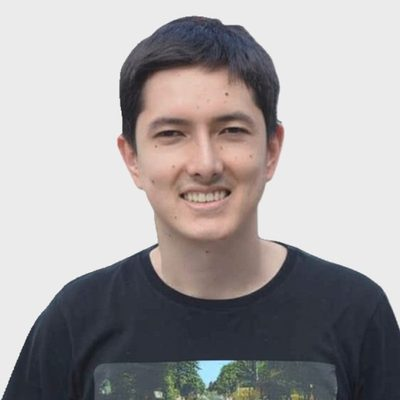
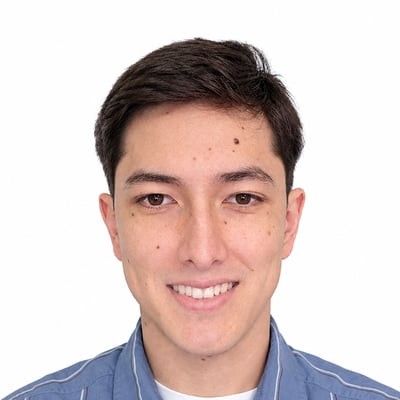
feat: add a links page and update the portrait
Add /links and /pt-br/links, a link-in-bio page with YouTube, Instagram,
LinkedIn, GitHub and email. Replace the portrait everywhere it appears,
including the Person schema image and the default social card.

diff --git a/src/data/site.ts b/src/data/site.ts
@@ -9,6 +9,8 @@ export const site = {
   email: { en: "hey@nickmiyasato.dev", "pt-br": "contato@nickmiyasato.dev" },
   github: "https://github.com/nixoletas",
   linkedin: "https://linkedin.com/in/nixoletas",
+  youtube: "https://www.youtube.com/@nixoletas",
+  instagram: "https://www.instagram.com/nickmiyasato",
   repo: "https://github.com/nixoletas/nickmiyasato",
   location: { en: "São Paulo, Brazil", "pt-br": "São Paulo, Brasil" },
 } as const;
